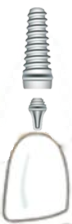
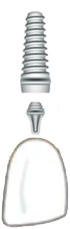
ReplaceImplantImagesWithCleanImages

diff --git a/src/components/messages/dental/content.tsx b/src/components/messages/dental/content.tsx
@@ -17,11 +17,112 @@ export default function Content(props: DentalState) {
                 Bedankt voor de interesse die u getoond heeft in onze organisatie. Aan de hand van uw röntgenfoto zijn wij uitgekomen tot de
                 onderstaande behandelplan.
             </p>
-            <span style={{ color: 'red', fontSize: '19px' }}>The price of implantaat</span> <br />
+            {/* Tooth Image */}
+            <div className={styles.tooth_content}>
+                <div className={styles.slide_tooth_btn}>
+                    <div className={styles.permanent_tooth_btn}>Het vlijvende gebit</div>
+                    <div className={styles.child_tooth_btn}>Melktanden</div>
+                </div>
+                <div className={styles.description_mail}>
+                    <div>
+                        <h1 style={{ fontWeight: 'bold' }}>Implantaat:</h1>
+                        <p>A-Kwaliteit €895</p>
+                        <p>Porselein €195</p>
+                    </div>
+                    <div>
+                        <h1 style={{ fontWeight: 'bold' }}>Brug: </h1>
+                        <p>Driedelige brug 3x material-crown</p>
+                        <p>Porselein €195</p>
+                    </div>
+                </div>
+
+                <div className={styles.all_price}></div>
+                <div className={styles.top_tooth_numbers}>
+                    {props.topTooth.map((teeth, index) => (
+                        <div
+                            key={index}
+                            className={styles.teethTopNumber}
+                            style={{
+                                marginRight: teeth.marginRight,
+                                backgroundColor: teeth.clickBrug % 2 === 1 ? 'red' : 'white',
+                                color: teeth.clickBrug % 2 === 1 ? 'white' : 'red'
+                            }}
+                        >
+                            <span className={styles.Top_brug_hover}>Brug: Porselein €195</span>
+                            {teeth.teethNum}
+                        </div>
+                    ))}
+                </div>
+                <div className={styles.bottom_tooth_numbers}>
+                    {props.bottomTooth.map((teeth, index) => (
+                        <div
+                            key={index}
+                            className={styles.teethBottomNumber}
+                            style={{
+                                marginRight: teeth.marginRight,
+                                backgroundColor: teeth.clickBrug % 2 === 1 ? 'red' : 'white',
+                                color: teeth.clickBrug % 2 === 1 ? 'white' : 'red'
+                            }}
+                        >
+                            <span className={styles.Bottom_brug_hover}>Brug: Porselein €195</span>
+                            {teeth.teethNum}
+                        </div>
+                    ))}
+                </div>
+                <>
+                    {props.topTooth.map((item, id) =>
+                        item.clickImplant % 2 === 1 && item.clickImplant > 0 ? (
+                            <div className={styles.top_teeth_image}>
+                                <img
+                                    src={props.topToothImages[id].imageUrl}
+                                    alt=''
+                                    style={{
+                                        top: props.topToothImages[id].top,
+                                        left: props.topToothImages[id].left
+                                    }}
+                                />
+                            </div>
+                        ) : null
+                    )}
+                </>
+                <>
+                    {props.bottomTooth.map((item, id) =>
+                        item.clickImplant % 2 === 1 && item.clickImplant > 0 ? (
+                            <div className={styles.bottom_teeth_image}>
+                                <img
+                                    src={props.bottomToothImages[id].imageUrl}
+                                    alt=''
+                                    style={{
+                                        bottom: props.bottomToothImages[id].bottom,
+                                        left: props.bottomToothImages[id].left
+                                    }}
+                                />
+                            </div>
+                        ) : null
+                    )}
+                </>
+                <div className={styles.tooth_buttons_top}>
+                    {props.topTooth.map((topT, index) => (
+                        <div key={index} className={styles.teeth_btn_top} style={{ width: topT.teethWidth }}>
+                            <span className={styles.top_implant_hover}>
+                                <p>Implantaat: A-Kwaliteit €895</p>
+                                <p>Material: Porselein €195</p>
+                            </span>
+                        </div>
+                    ))}
+                </div>
+                <div className={styles.tooth_buttons_bottom}>
+                    {props.bottomTooth.map((bottomT, index) => (
+                        <div key={index} className={styles.teeth_btn_bottom} style={{ width: bottomT.teethWidth }}></div>
+                    ))}
+                </div>
+            </div>
+            {/* Price */}
+            <span style={{ color: 'red', fontSize: '19px', marginTop: '20px' }}>The price of implantaat</span> <br />
             <p style={{ color: '#1a79c6', fontSize: '19px' }}>Extracties: {}</p>
             <p style={{ color: '#1a79c6', fontSize: '19px' }}>Implantaat: {}</p>
             <p style={{ color: '#1a79c6', fontSize: '19px' }}>Bone graft: {}</p>
-            <p style={{ color: '#1a79c6', fontSize: '19px' }}>Brug: {}</p>
+            <p style={{ color: 'red', fontSize: '19px' }}>Brug: {}</p>
             <p style={{ color: '#1a79c6', fontSize: '19px' }}>
                 U behoort voor uw behandeling in totaal 2 keer af te reizen naar Turkije, tijdens uw eerste bezoek (3 werkdagen) worden de
                 extracties uitgevoerd, sinus grafting uitgevoerd, en de implantaten geplaatst. Na 3 maanden genezingstijd behoort u nogmaals

diff --git a/src/components/messages/dental/data.tsx b/src/components/messages/dental/data.tsx
@@ -156,18 +156,18 @@ export const TopToothImages = [
     { top: '172px', left: '40.5px', imageUrl: '/top/18.png' },
     { top: '223.5px', left: '118.8px', imageUrl: '/top/17.png' },
     { top: '249.4px', left: '166px', imageUrl: '/top/16.png' },
-    { top: '222px', left: '322.8px', imageUrl: '/top/15.png' },
-    { top: '227px', left: '379px', imageUrl: '/top/14.png' },
-    { top: '225px', left: '443px', imageUrl: '/top/13.png' },
-    { top: '230px', left: '512px', imageUrl: '/top/12.png' },
-    { top: '221px', left: '571px', imageUrl: '/top/11.png' },
+    { top: '240px', left: '322px', imageUrl: '/top/15.png' },
+    { top: '239px', left: '379px', imageUrl: '/top/14.png' },
+    { top: '211px', left: '442px', imageUrl: '/top/13.png' },
+    { top: '240px', left: '512px', imageUrl: '/top/12.png' },
+    { top: '210px', left: '572.5px', imageUrl: '/top/11.png' },
 
-    { top: '218px', left: '641.5px', imageUrl: '/top/21.png' },
-    { top: '233px', left: '713.5px', imageUrl: '/top/22.png' },
-    { top: '225.5px', left: '773px', imageUrl: '/top/23.png' },
-    { top: '239px', left: '842.6px', imageUrl: '/top/24.png' },
+    { top: '212px', left: '642.5px', imageUrl: '/top/21.png' },
+    { top: '212px', left: '714.5px', imageUrl: '/top/22.png' },
+    { top: '203.5px', left: '773px', imageUrl: '/top/23.png' },
+    { top: '215px', left: '843.6px', imageUrl: '/top/24.png' },
     { top: '241px', left: '908px', imageUrl: '/top/25.png' },
-    { top: '229px', left: '941px', imageUrl: '/top/26.png' },
+    { top: '228.5px', left: '941px', imageUrl: '/top/26.png' },
     { top: '239px', left: '1048.7px', imageUrl: '/top/27.png' },
     { top: '236px', left: '1140.8px', imageUrl: '/top/28.png' }
 ];
@@ -305,49 +305,49 @@ export const BottomTooth = [
 ];
 
 export const BottomToothImages = [
-    { bottom: '91.5px', left: '74px', imageUrl: '/bottom/48.png' },
+    { bottom: '111px', left: '73.2px', imageUrl: '/bottom/48.png' },
     {
-        bottom: '101px',
+        bottom: '64px',
         left: '161.5px',
         imageUrl: '/bottom/47.png'
     },
-    { bottom: '106px', left: '251px', imageUrl: '/bottom/46.png' },
-    { bottom: '81px', left: '340px', imageUrl: '/bottom/45.png' },
-    { bottom: '85px', left: '406px', imageUrl: '/bottom/44.png' },
-    { bottom: '73px', left: '477px', imageUrl: '/bottom/43.png' },
-    { bottom: '87px', left: '547px', imageUrl: '/bottom/42.png' },
-    { bottom: '85px', left: '595px', imageUrl: '/bottom/41.png' },
+    { bottom: '62px', left: '249px', imageUrl: '/bottom/46.png' },
+    { bottom: '68px', left: '339.3px', imageUrl: '/bottom/45.png' },
+    { bottom: '53px', left: '404px', imageUrl: '/bottom/44.png' },
+    { bottom: '55px', left: '477px', imageUrl: '/bottom/43.png' },
+    { bottom: '72px', left: '546px', imageUrl: '/bottom/42.png' },
+    { bottom: '77px', left: '595px', imageUrl: '/bottom/41.png' },
 
-    { bottom: '88px', left: '645px', imageUrl: '/bottom/31.png' },
-    { bottom: '85px', left: '694px', imageUrl: '/bottom/32.png' },
+    { bottom: '77px', left: '644px', imageUrl: '/bottom/31.png' },
+    { bottom: '87px', left: '694px', imageUrl: '/bottom/32.png' },
     {
-        bottom: '73px',
+        bottom: '55px',
         left: '744.7px',
         imageUrl: '/bottom/33.png'
     },
     {
-        bottom: '76.8px',
+        bottom: '62.8px',
         left: '811px',
         imageUrl: '/bottom/34.png'
     },
     {
         bottom: '83px',
-        left: '883.7px',
+        left: '882.7px',
         imageUrl: '/bottom/35.png'
     },
     {
-        bottom: '103.8px',
-        left: '950px',
+        bottom: '104px',
+        left: '949px',
         imageUrl: '/bottom/36.png'
     },
     {
-        bottom: '102px',
-        left: '1041.4px',
+        bottom: '104.5px',
+        left: '1040.7px',
         imageUrl: '/bottom/37.png'
     },
     {
-        bottom: '95.7px',
-        left: '1130px',
+        bottom: '101.7px',
+        left: '1129px',
         imageUrl: '/bottom/38.png'
     }
 ];
@@ -368,7 +368,9 @@ export const defaultState = {
     sinuslift: Sinuslift[0],
     treatments: '',
     topTooth: TopTooth,
-    bottomTooth: BottomTooth
+    bottomTooth: BottomTooth,
+    bottomToothImages: BottomToothImages,
+    topToothImages: TopToothImages
 };
 
 export type DentalState = typeof defaultState;

diff --git a/src/components/messages/dental/form.tsx b/src/components/messages/dental/form.tsx
@@ -174,7 +174,7 @@ export default function Form({ state, setState }: { state: DentalState; setState
                             key={index}
                             onClick={() => {
                                 const TopTeeth = state.topTooth.map((item, count) =>
-                                    count === index && teeth.clickImplant % 2 === 0 ? { ...item, clickBrug: item.clickBrug + 1 } : item
+                                    count === index ? { ...item, clickBrug: item.clickBrug + 1 } : item
                                 );
                                 setState({
                                     ...state,
@@ -201,7 +201,7 @@ export default function Form({ state, setState }: { state: DentalState; setState
                                 setState({
                                     ...state,
                                     bottomTooth: state.bottomTooth.map((item, count) =>
-                                        count === index && teeth.clickImplant % 2 === 0 ? { ...item, clickBrug: item.clickBrug + 1 } : item
+                                        count === index ? { ...item, clickBrug: item.clickBrug + 1 } : item
                                     )
                                 });
                             }}
@@ -219,7 +219,7 @@ export default function Form({ state, setState }: { state: DentalState; setState
                 </Box>
                 <>
                     {state.topTooth.map((item, id) =>
-                        item.clickImplant % 2 === 1 && item.clickImplant > 0 && item.clickBrug % 2 === 0 ? (
+                        item.clickImplant % 2 === 1 && item.clickImplant > 0 ? (
                             <div className={styles.top_teeth_image}>
                                 <img
                                     src={TopToothImages[id].imageUrl}
@@ -235,7 +235,7 @@ export default function Form({ state, setState }: { state: DentalState; setState
                 </>
                 <>
                     {state.bottomTooth.map((item, id) =>
-                        item.clickImplant % 2 === 1 && item.clickImplant > 0 && item.clickBrug % 2 === 0 ? (
+                        item.clickImplant % 2 === 1 && item.clickImplant > 0 ? (
                             <div className={styles.bottom_teeth_image}>
                                 <img
                                     src={BottomToothImages[id].imageUrl}

diff --git a/src/components/messages/dental/content.module.scss b/src/components/messages/dental/content.module.scss
@@ -73,6 +73,20 @@
     border-radius: 8px;
     height: 100px;
   }
+  .description_mail {
+    display: flex;
+    justify-content: space-around;
+    align-items: center;
+    background-color: white;
+    border: solid 3px #1a79c6;
+    position: absolute;
+    color: #1a79c6;
+    width: 410px;
+    top: 10px;
+    left: 15px;
+    border-radius: 8px;
+    height: 120px;
+  }
   .important_notes {
     display: flex;
     flex-direction: column;
